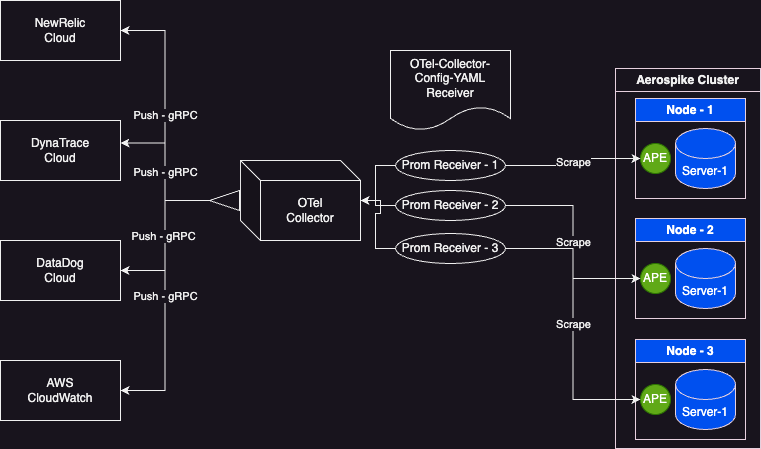
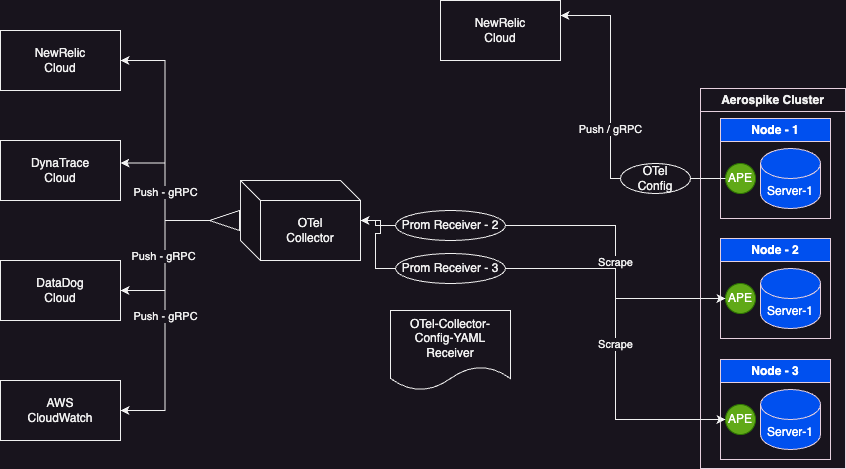
OM-188 - README updates
modified the deployment image
added section related to key OTel configs in ape.toml config file

diff --git a/examples/otel/README.md b/examples/otel/README.md
@@ -4,7 +4,7 @@ The otel deploy Aerospike Monitoring Stack is a docker compose configuration
 which creates the following containers running on the same host as a single-node
 Aerospike cluster:
 1. aerospike-prometheus-exporter latest version
-1. OTel collector contrib latest version
+2. OTel collector contrib latest version
 
 A prerequisite is that you have a single-node cluster, with the service port
 accessible from port 3000 of the host where the monitoring stack is deployed.  If you
@@ -16,9 +16,42 @@ $ docker run -tid --name aerospike -p 3000:3000 -p 3001:3001 -p 3002:3002 aerosp
 ```
 
 # Deployment model
+
+Aerospike Prometheus Exporter can push data to OTel endpoints  
+
+1. Exporter directly pushing to OTel endpoint
+2. OTel Collector
+
+# Connecting to OTel endpoints
 ![Deployment Topology](assets/aerospike_exporter_otel_collector.png)
 
-These examples cover integration of aerospike monitoring with 
+## Aerospike Prometheus Exporter push to OTel endpoint
+##### modify the Aerospike Prometheus Exporter ape.toml config file with the OTel endpoints
+
+> **Note**: Currently Exporter supports only gRPC endpoints
+
+OpenTelemetry configs are available under section Agent.OpenTelemetry in ape.toml config file
+
+```
+service_name = "<please provide application service to be appeared in the observability site>"
+Example: "aerospike-cluster-checkout-system"
+```
+
+```
+endpoint = "<endpoint of the OTel provider without any protocol and port number>"
+Example: "otlp.nr-data.net"
+```
+
+```
+endpoint_tls_enabled = true/false
+```
+
+```
+headers = {<mention the auth api-key as key=value pair here, multiple key/values can be provided as a comma separated values>}
+Example: {api-key="newrelic-auth-key"}
+```
+
+These examples cover integration of aerospike monitoring with using OTel Collector component
 
 1. NewRelic
 2. Datadog
